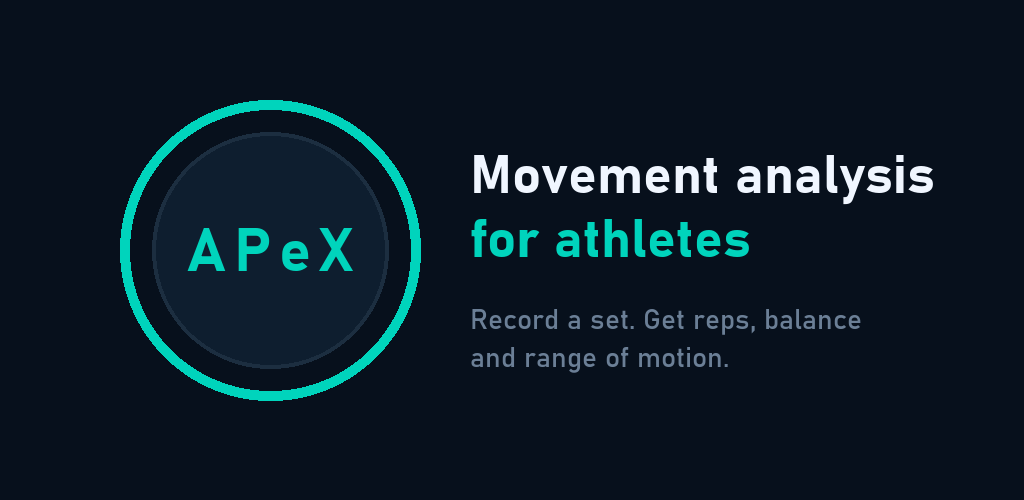
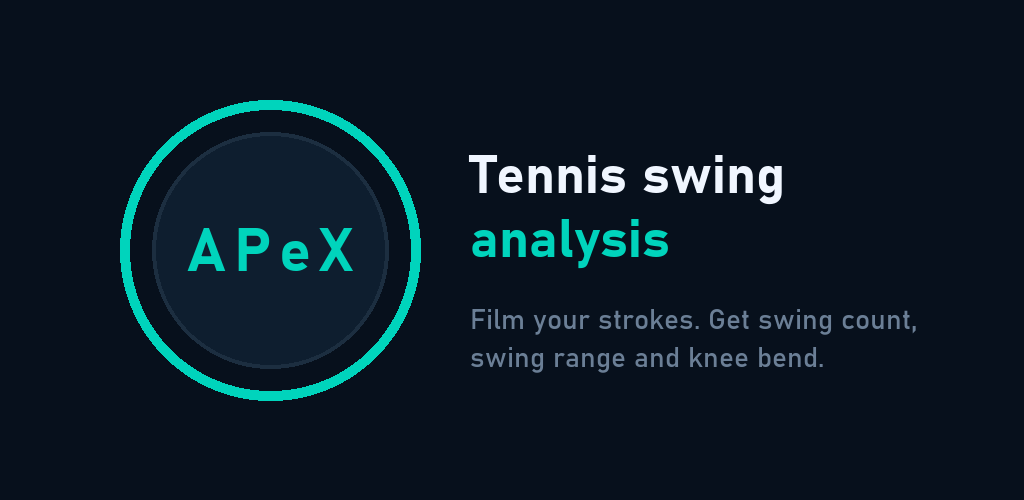
Describe APeX as tennis swing analysis in the store listing, graphics and privacy policy
Tennis is the app's current purpose. The listing now names only what the
tennis analysis produces (swing count, swing range, knee bend, readiness,
replay); the privacy policy's example is a tennis swing, with its data
disclosures left unchanged. The app itself is untouched.

diff --git a/docs/privacy-policy.html b/docs/privacy-policy.html
@@ -487,7 +487,7 @@
       <p>Athletes may provide <strong>height, weight, playing position, and date of birth</strong>. This is optional and used only to personalize your readiness tracking (e.g., unit conversion, age display) &mdash; you can leave any of it blank.</p>
 
       <h3 id="s2-3"><span class="subnum">2.3</span>Movement Videos</h3>
-      <p>The core feature of APeX is recording a short (about 20 seconds or less) video of yourself performing an exercise (e.g., squat, jump, pull-up, deadlift, push-up, ab crunch), which is uploaded so our system can analyze your movement. A few important specifics:</p>
+      <p>The core feature of APeX is recording a short (about 20 seconds or less) video of yourself performing a movement (e.g., a few tennis swings), which is uploaded so our system can analyze your movement. A few important specifics:</p>
       <ul>
         <li><strong>Video only, no audio.</strong> Recordings made in-app are captured with audio explicitly disabled &mdash; we do not collect or store sound from your recordings.</li>
         <li>Videos are uploaded to secure, private cloud storage and are <strong>not</strong> publicly accessible &mdash; only you, and your coach/manager if you belong to a team (Section 4), can access them.</li>

diff --git a/store-assets/android/generate_play_graphics.py b/store-assets/android/generate_play_graphics.py
@@ -67,10 +67,10 @@ def feature_graphic():
     # Content kept inside the central ~80%: Play may crop edges or overlay a play button.
     badge(d, 270, H // 2, 300)
     x = 470
-    d.text((x, 150), "Movement analysis", font=font(54), fill=TEXT)
-    d.text((x, 214), "for athletes", font=font(54), fill=PRIMARY)
-    d.text((x, 306), "Record a set. Get reps, balance", font=font(28, "Regular"), fill=MUTED)
-    d.text((x, 344), "and range of motion.", font=font(28, "Regular"), fill=MUTED)
+    d.text((x, 150), "Tennis swing", font=font(54), fill=TEXT)
+    d.text((x, 214), "analysis", font=font(54), fill=PRIMARY)
+    d.text((x, 306), "Film your strokes. Get swing count,", font=font(28, "Regular"), fill=MUTED)
+    d.text((x, 344), "swing range and knee bend.", font=font(28, "Regular"), fill=MUTED)
     img.save(OUT / "feature-graphic-1024x500.png")
 
 

diff --git a/ANDROID_SUBMISSION_PLAN.md b/ANDROID_SUBMISSION_PLAN.md
@@ -221,44 +221,14 @@ memory, so re-check it if either changes.
 - Phone screenshots: 🔴 **not done** — 2–8 needed, taken from an emulator or device (§4). These
   are the only listing item that genuinely needs Android running.
 
-**App name** (max 30): `APeX: Athlete Performance`
-
-**Short description** (max 80):
-> Record a set on video. Get rep counts, balance and range-of-motion feedback.
-
-**Full description** (max 4000):
-> APeX turns a short phone video into movement feedback. Prop your phone up, record a set, and
-> APeX reconstructs your movement in 3D to count your reps and measure how you move — no wearables,
-> no markers.
->
-> WHAT YOU GET
-> • Automatic rep counting from video
-> • Left/right balance, to spot one side doing more of the work
-> • Range of motion for every rep, against research-based targets
-> • A readiness score and its trend over time
-> • A replay of your set with a skeleton overlay, so you can review your form
->
-> SPORTS AND EXERCISES
-> General fitness (squat, vertical jump, pull-up, push-up, ab crunch), padel strokes, and tennis
-> strokes and serves.
->
-> FOR COACHES AND TEAMS
-> Create a team, invite athletes with a code, set each athlete's routine, and follow their
-> readiness and history in one place. Athletes who train on their own keep their data private to
-> themselves.
->
-> PRIVACY
-> Videos are recorded without audio and stored privately. No ads, no third-party analytics, and
-> your data is never sold. Delete any session, or your whole account, from inside the app.
->
-> IMPORTANT
-> APeX provides training feedback based on computer-vision movement analysis — pose estimation,
-> balance, and range of motion. It is not a medical device, is not a diagnostic tool, and is not a
-> substitute for professional medical advice. Consult a physician before beginning any exercise
-> program.
-
-(The last paragraph is the in-app About text from `SettingsScreen.tsx`, verbatim — keep the two
-in sync.)
+**App name, short and full description** — ✅ paste-ready in `store-assets/android/listing.txt`
+(the single source; don't copy it into this doc, a duplicate here already went stale once). As of
+2026-09-24 it describes the app as **tennis swing analysis only** — the app's current purpose — and
+lists only what the tennis analysis actually produces: swing count, swing range, knee bend,
+readiness trend and the skeleton replay (no left/right balance: tennis has no balance check).
+Name `APeX: Tennis Swing Analysis` (27/30), short description 78/80, full 1263/4000. Its last
+paragraph is the in-app About text from `SettingsScreen.tsx`, verbatim — keep the two in sync.
+The same text works for the App Store listing.
 
 **Category**: Health & Fitness. **Contact email**: `danzlotnikov+apex@gmail.com`.
 **Website/support**: `https://danzlotnikov.github.io/APeX/support.html`.
@@ -291,7 +261,8 @@ Play requires. 🟡 That edit to `docs/support.html` is only live once pushed to
 
 **App access**: the app starts at a login screen, so Play's reviewers need credentials. Reuse the
 existing App Store reviewer demo account (see `APP_STORE_SUBMISSION_PLAN.md`'s review notes), and
-add the same note that video analysis runs on a schedule and isn't instant.
+add the same note that video analysis runs on a schedule and isn't instant, and that the app
+analyzes **tennis swings only** — ask reviewers to record a few tennis strokes.
 
 **Other App content forms**:
 - Ads: **No ads**.
@@ -331,9 +302,9 @@ tracks its own findings — don't let this list live only in chat history.
 **Closed testers must be tennis players (decided 2026-09-23):** production stays in tennis-only
 detection mode (`analyze.ENABLED_EXERCISE_KEYS` in `backend/GENMO/scripts/exercises/analyze.py`),
 so a tester recording a squat, jump, pull-up, push-up or crunch gets no result or a wrong one.
-Tell testers to record tennis swings only. Before the public production release, either restore
-full detection or cut the listing's "SPORTS AND EXERCISES" paragraph (§3.4) down to tennis, so the
-listing doesn't promise exercises the backend won't detect.
+Tell testers to record tennis swings only. The store listing (§3.4) was rewritten as tennis-only
+on 2026-09-24, so it no longer promises exercises the backend won't detect; if full detection is
+ever restored, widen the listing again to match.
 
 ---
 

diff --git a/PRIVACY_POLICY.md b/PRIVACY_POLICY.md
@@ -46,9 +46,8 @@ blank.
 
 ### 2.3 Movement Videos
 The core feature of APeX is recording a short (about 20 seconds or less)
-video of yourself performing an exercise (e.g., squat, jump, pull-up,
-deadlift, push-up, ab crunch), which is uploaded so our system can analyze
-your movement. A few important specifics:
+video of yourself performing a movement (e.g., a few tennis swings), which
+is uploaded so our system can analyze your movement. A few important specifics:
 
 - **Video only, no audio.** Recordings made in-app are captured with audio
   explicitly disabled — we do not collect or store sound from your
